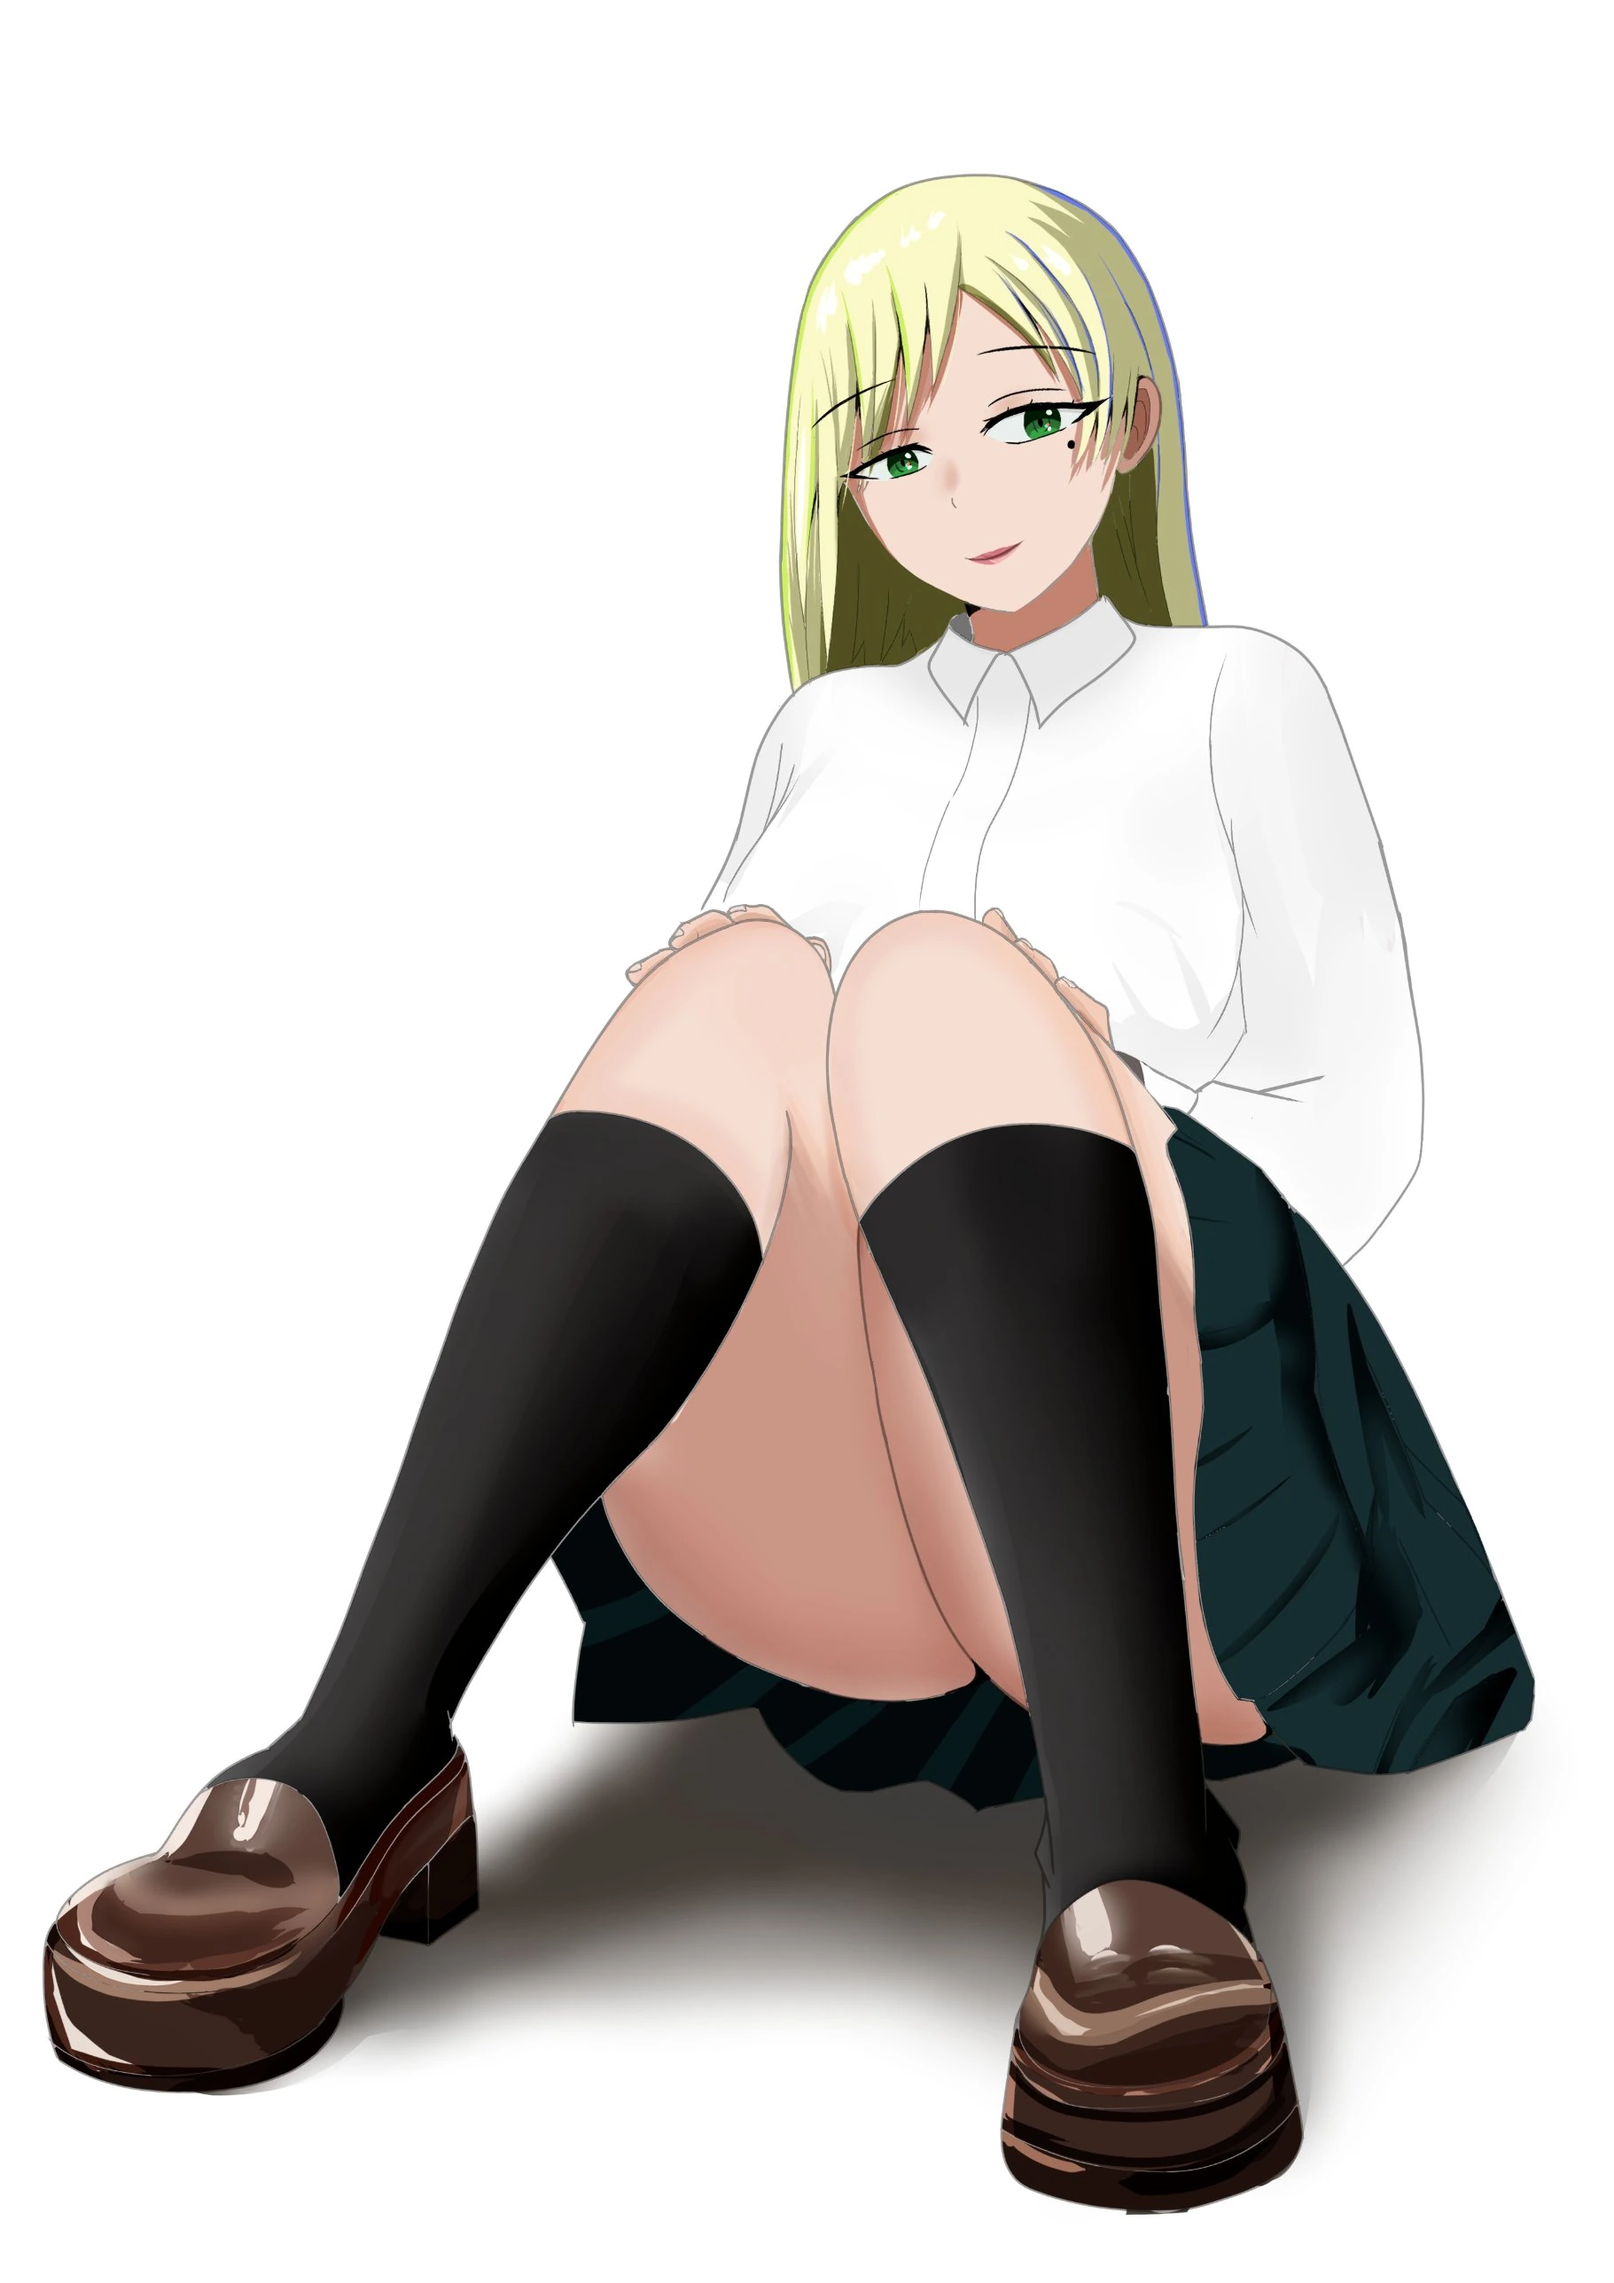
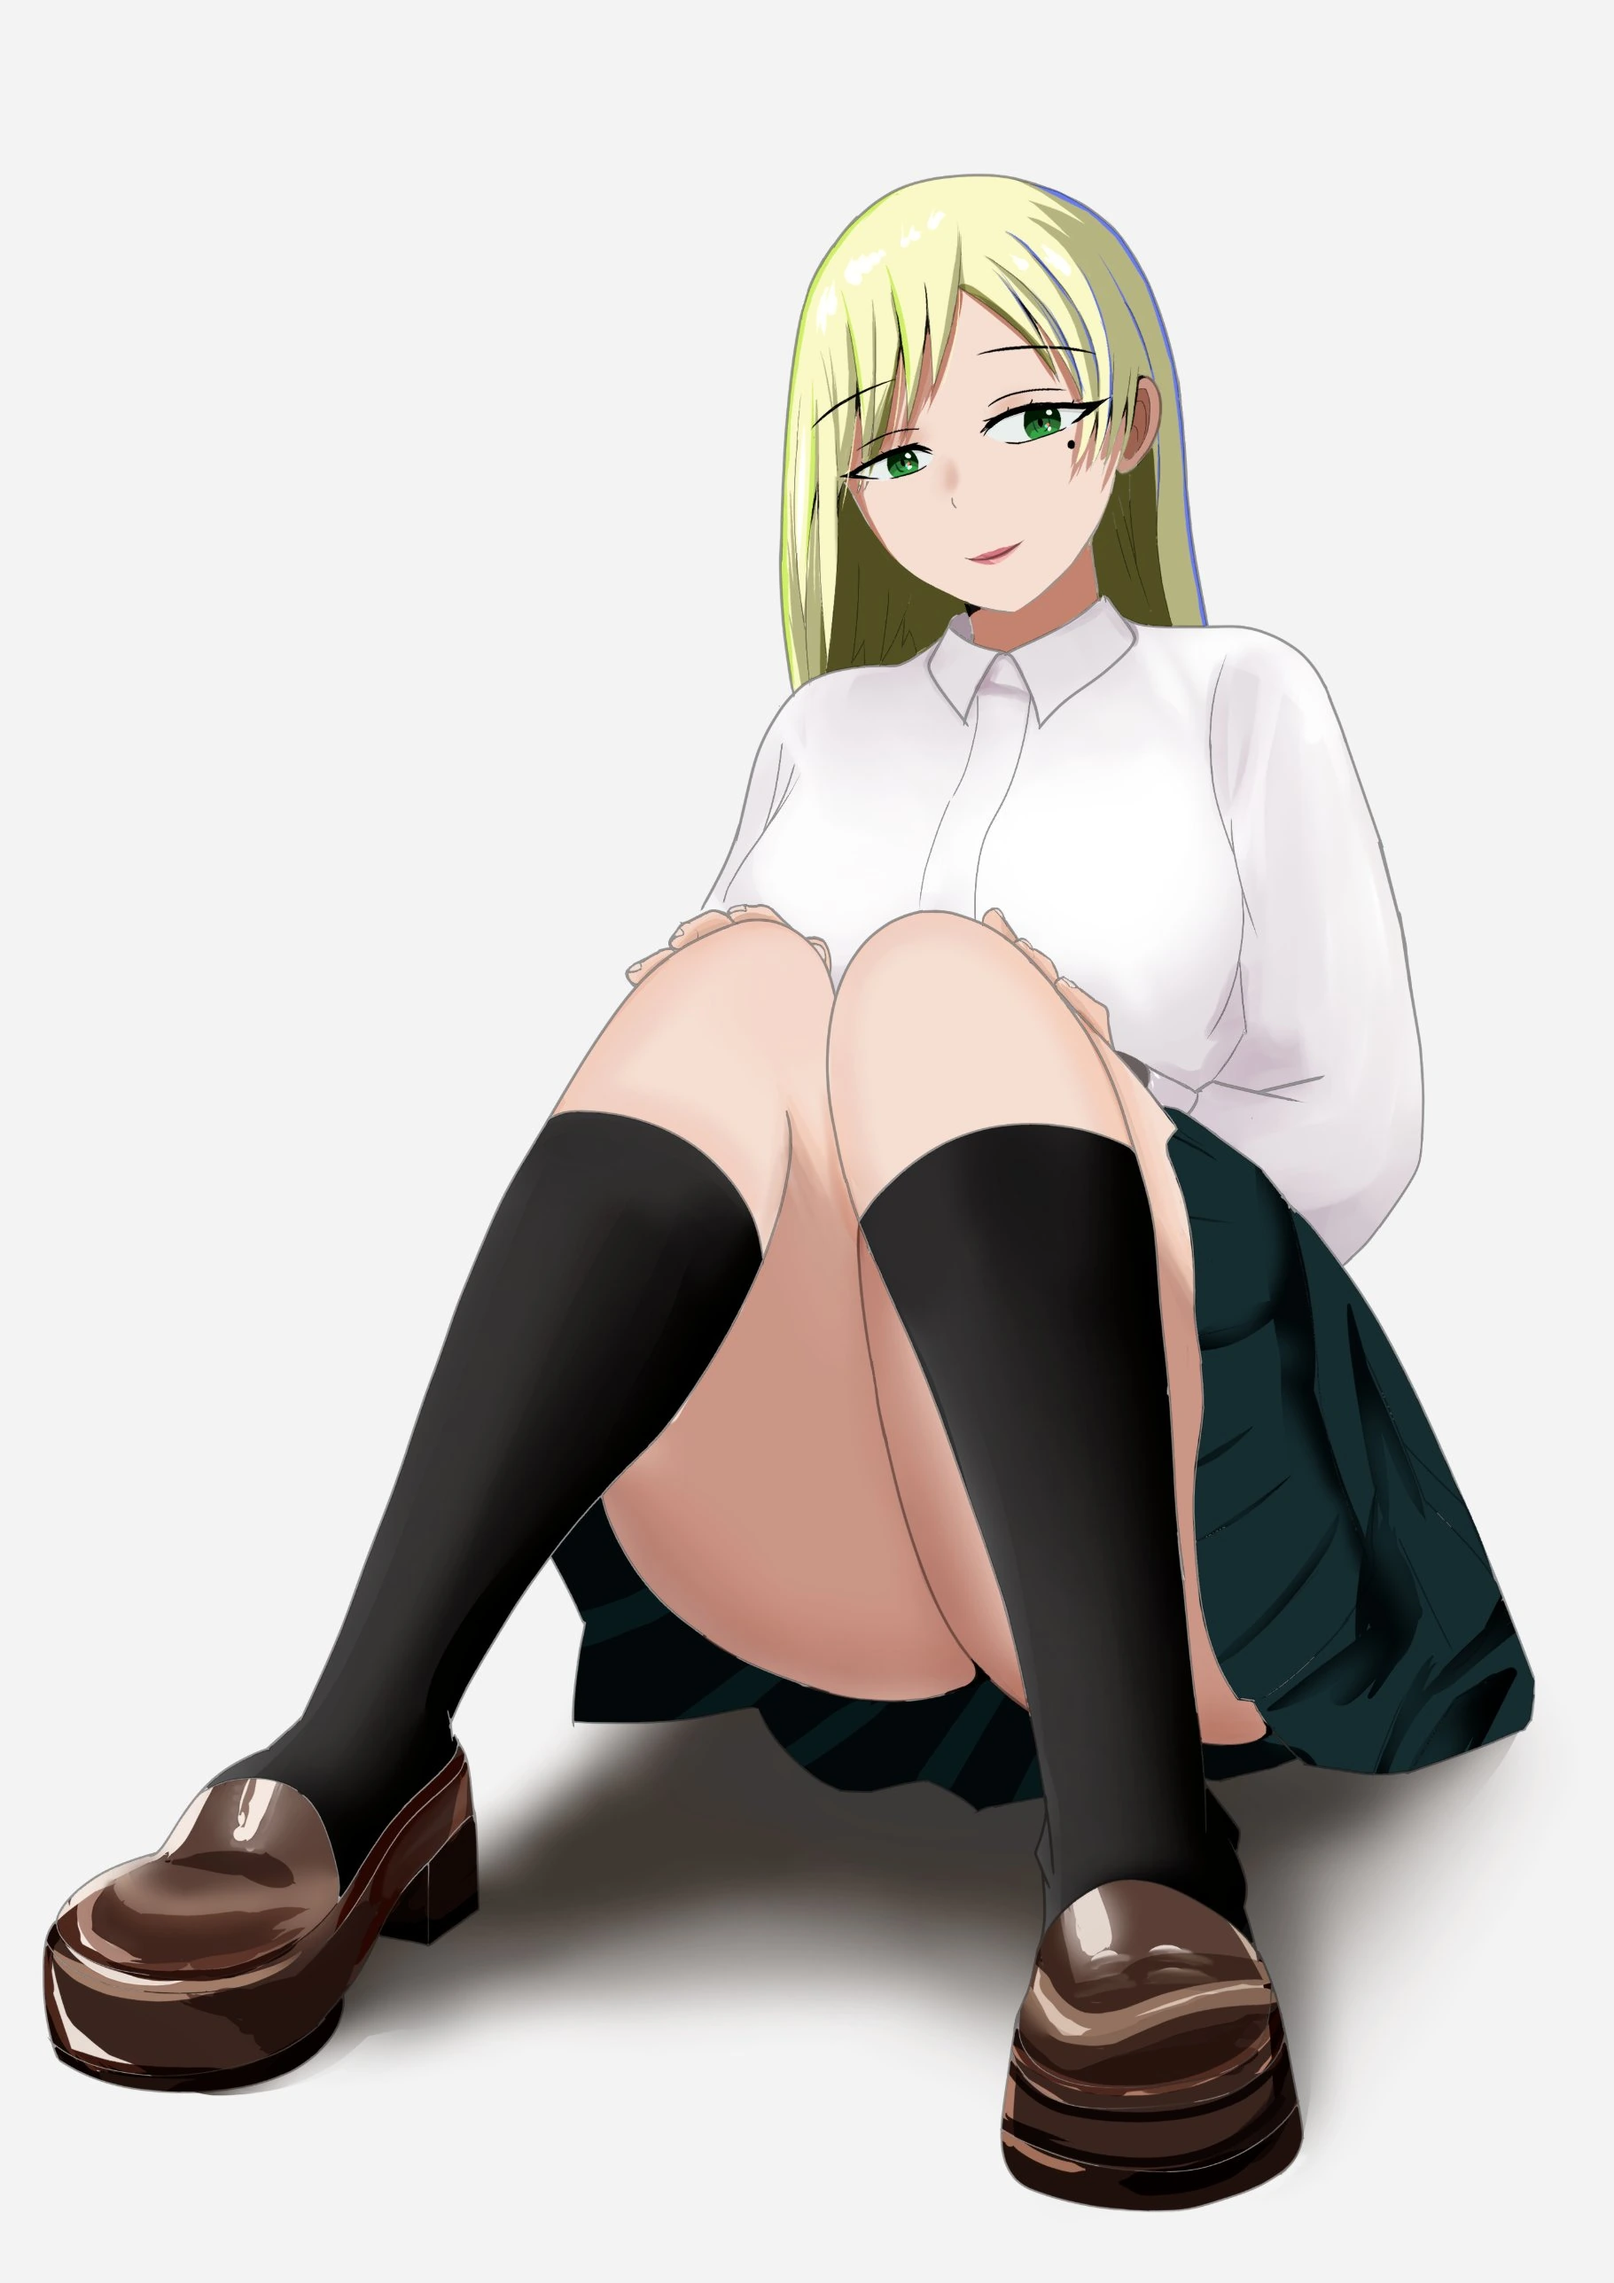
Serena: darker shirt shading; closeup for About, full body for gallery/home/detail
Claude-Session: https://claude.ai/code/session_017iBx6T4i9goYPupEpchUxz

diff --git a/about_jp.html b/about_jp.html
@@ -68,7 +68,7 @@
   <div class="about-intro">
     <div class="about-visual">
       <!-- 画像は、ご自身のアイコンや、いちばん自分らしい作品に差し替えてください -->
-      <img src="thumbs/original-serena-m.webp" alt="Kohinn のイラスト" fetchpriority="high" decoding="async">
+      <img src="thumbs/serena-closeup-m.webp" alt="Kohinn のイラスト" fetchpriority="high" decoding="async">
     </div>
 
     <div class="about-text">

diff --git a/about.html b/about.html
@@ -80,7 +80,7 @@
   <!-- ① Introduction -->
   <div class="about-intro">
     <div class="about-visual">
-      <img src="thumbs/original-serena-m.webp" alt="Illustration by Kohinn" fetchpriority="high" decoding="async">
+      <img src="thumbs/serena-closeup-m.webp" alt="Illustration by Kohinn" fetchpriority="high" decoding="async">
     </div>
 
     <div class="about-text">
